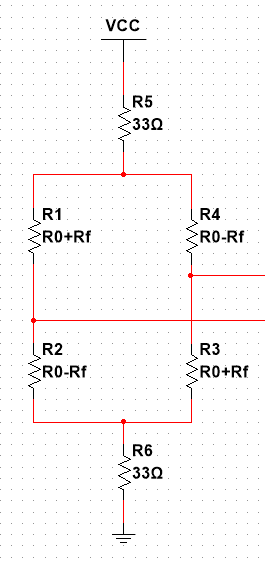
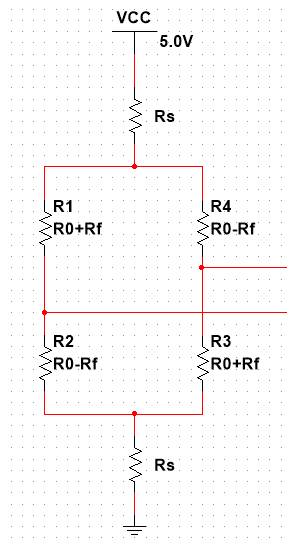
Chương 3.1

Changed region(s): [[0.0906, 0.0, 1.0, 0.9945]]

diff --git a/Report/chuong3.tex b/Report/chuong3.tex
@@ -1,6 +1,50 @@
 \chapter{Tính toán mô phỏng}
 \section{Mô hình loadcell}
 
+Mô hình load cell được minh họa trong Hình~\ref{fig:loadcell_model}, ta có được $R_{in}$ và $R_{out}$ như sau:
+
+\begin{figure}[H]
+    \centering
+    \begin{minipage}{0.4\textwidth}
+        \centering
+        \includegraphics[width=\textwidth]{image/Rin.png}
+        \caption{$R_{in}$}
+        \label{fig:rin}
+    \end{minipage}
+    \hfill
+    \begin{minipage}{0.4\textwidth}
+        \centering
+        \includegraphics[width=\textwidth]{image/Rout.png}
+        \caption{$R_{out}$}
+        \label{fig:rout}
+    \end{minipage}
+\end{figure}
+
+\noindent
+Ta có:
+\[
+\left\{
+\begin{aligned}
+R_{in} &= \dfrac{(R_0+R_f) + (R_0-R_f)}{2} + 2R_s \\
+R_{out} &= R_0 - \dfrac{R_f^2}{R_0 + 2R_s}
+\end{aligned}
+\right.
+\]
+
+\noindent
+Khi $m = 0$, cầu cân bằng:
+\[
+\left\{
+\begin{aligned}
+R_f &= 0 \\[4pt]
+R_0 &= R_{out} = 1000\,\Omega \\[4pt]
+R_s &= 33\,\Omega
+\end{aligned}
+\right.
+\]
+
+
+
 \section{Tính toán mạch V-I Converter}
 
 \section{Thiết kế mạch đọc dòng}
